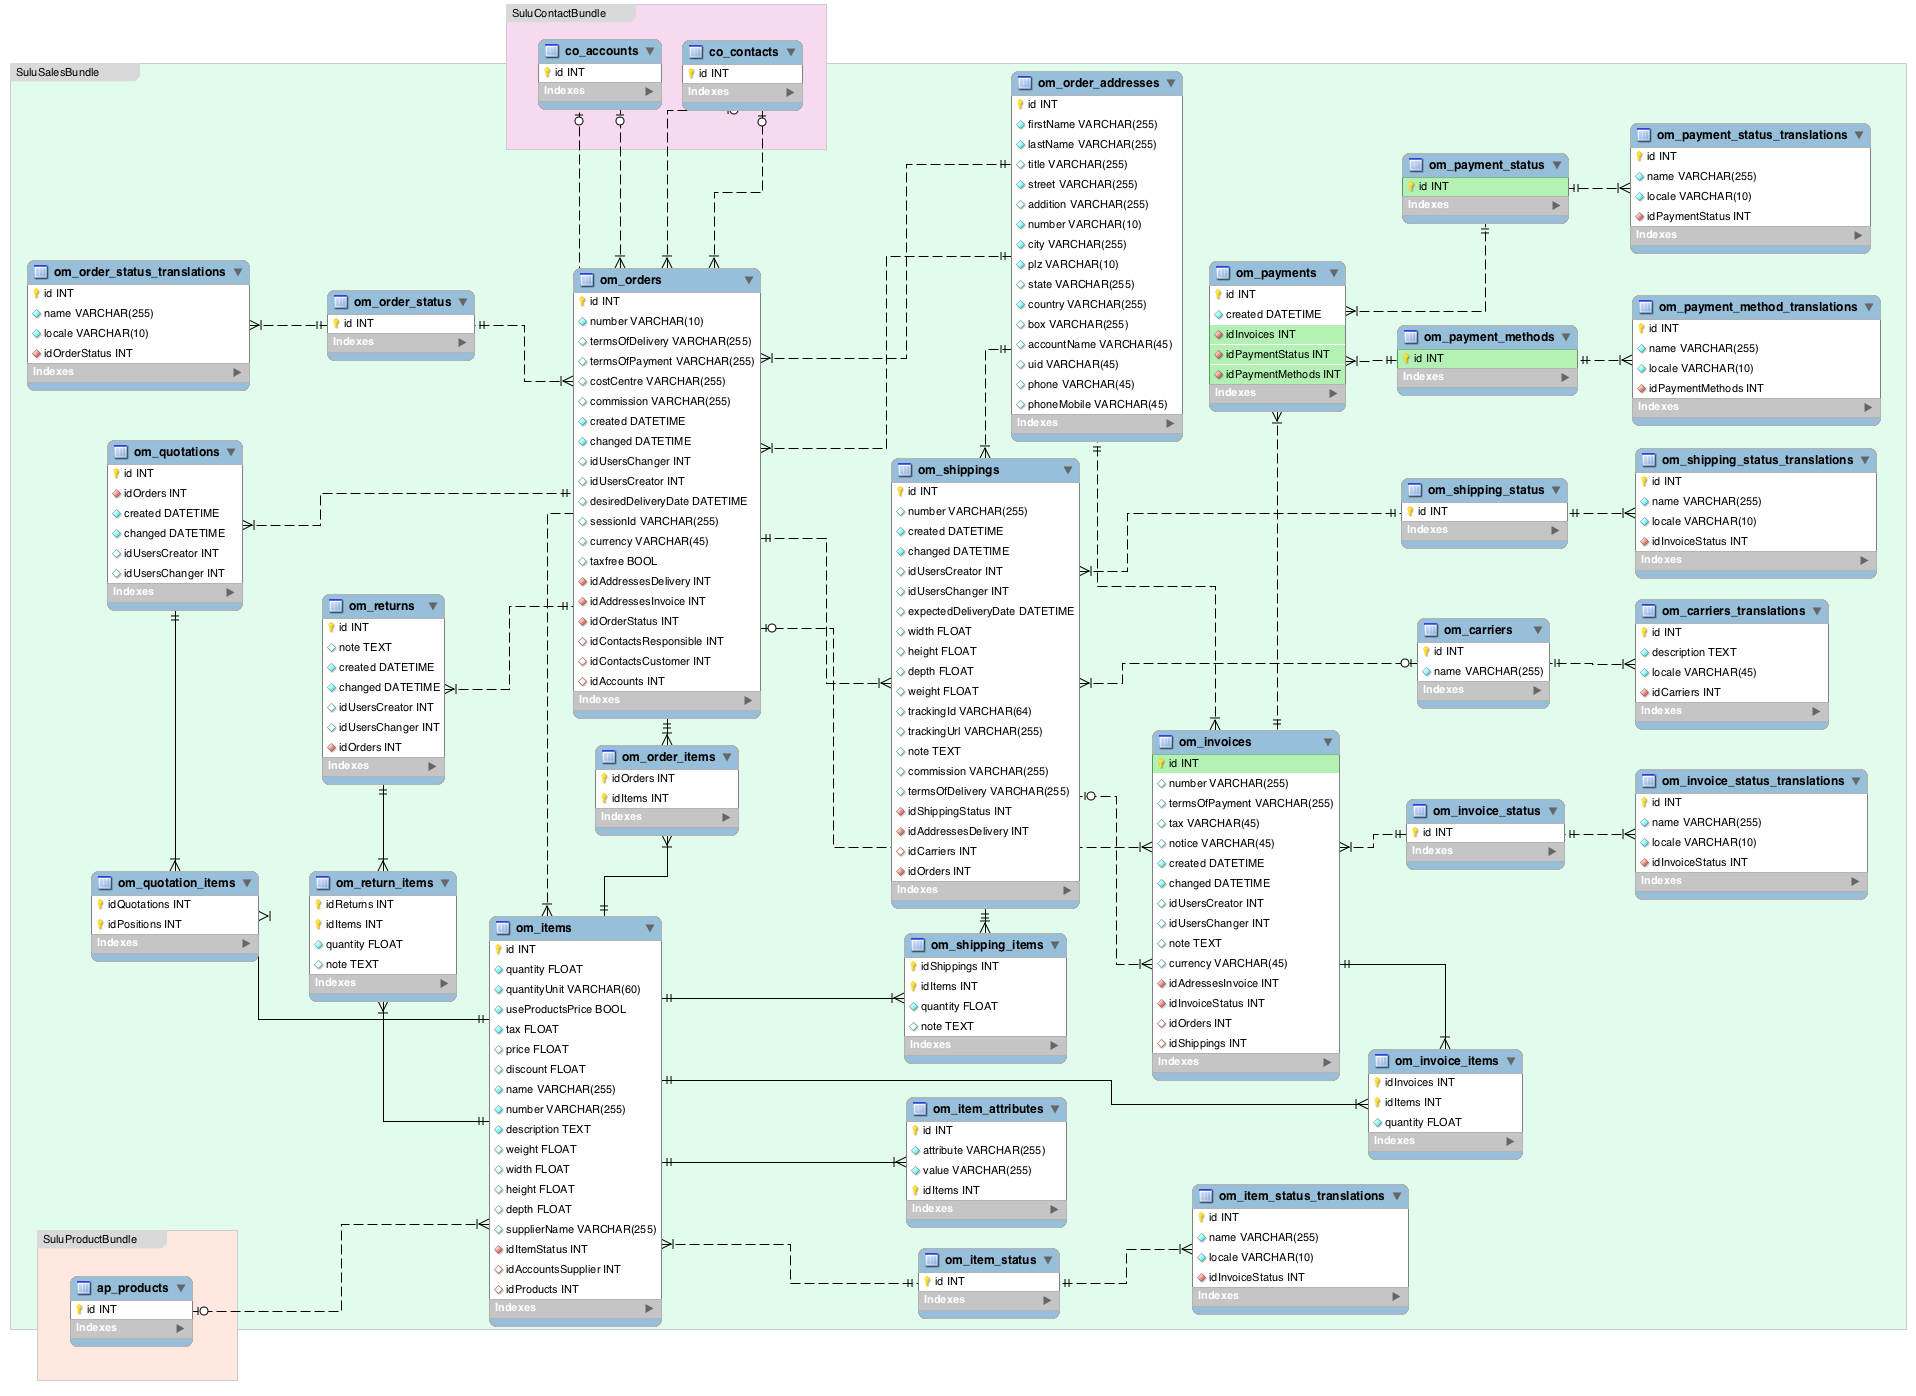
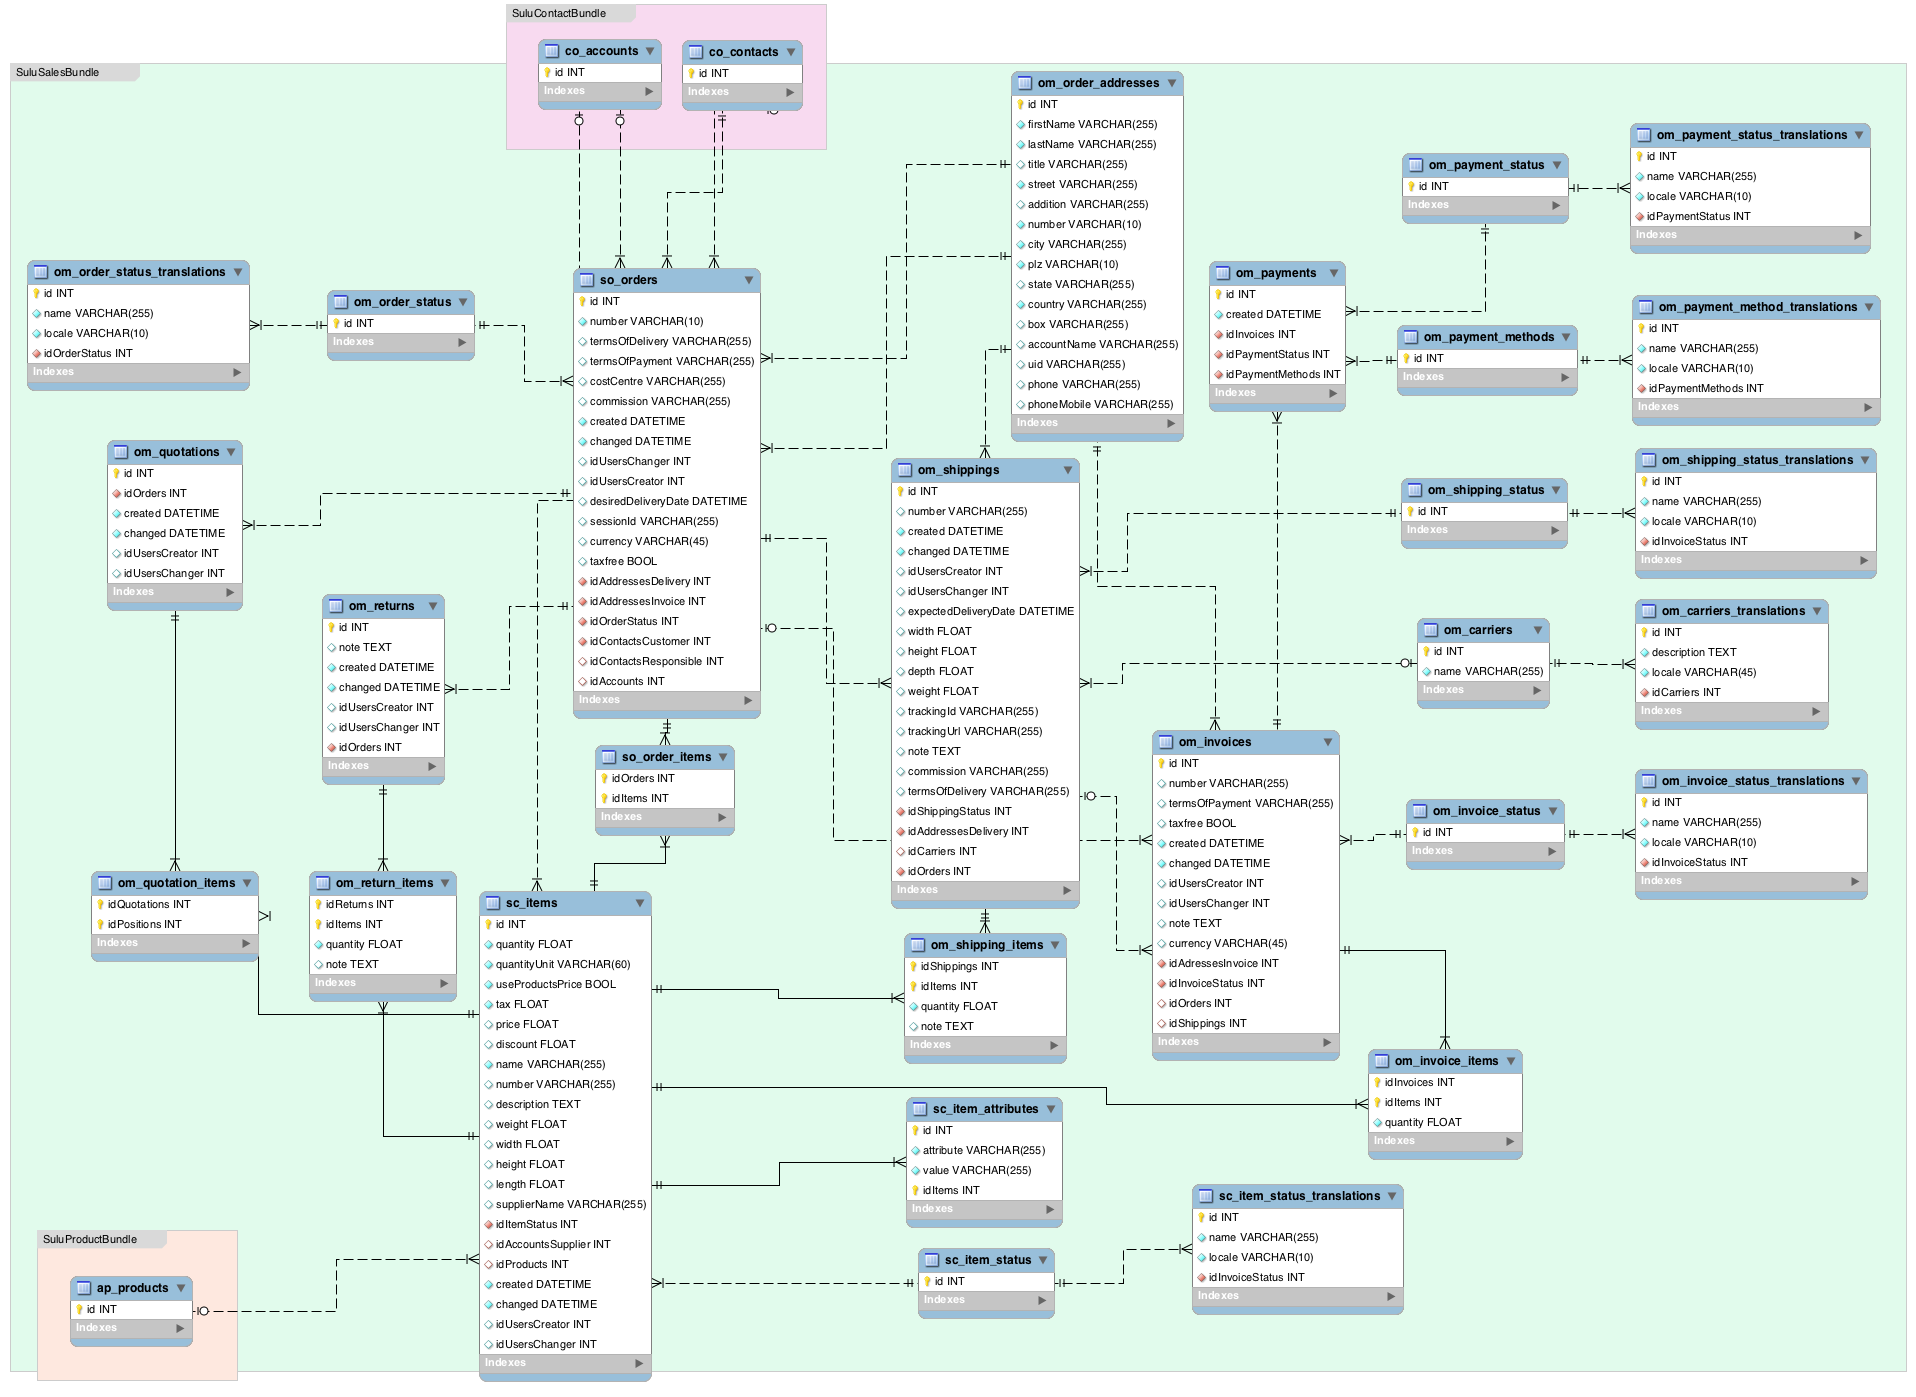
created sales section in detail specification

diff --git a/detail-specification/README.md b/detail-specification/README.md
@@ -18,7 +18,7 @@
 
 ![800 DASHBOARD](https://raw.github.com/massiveart/sulu-docs/master/system-requirements/images/dashboard.png)[800 DASHBOARD](https://github.com/massiveart/sulu-docs/tree/master/detail-specification/800-dashboard "800 DASHBOARD")
 
-![900 SHOP](https://raw.github.com/massiveart/sulu-docs/master/system-requirements/images/shop.png)[900 SHOP](https://github.com/massiveart/sulu-docs/tree/master/detail-specifications/900-shop "900 SHOP")
+![900 SALES](https://raw.github.com/massiveart/sulu-docs/master/system-requirements/images/shop.png)[900 SALES](https://github.com/massiveart/sulu-docs/tree/master/detail-specifications/900-sales "900 SALES")
 
 ####Purpose
 The purpose of this online documentation is to present a definition of the system specification of Sulu 2.0. It contains the major detail specification documents. This documentation is intended for the development team.

diff --git a/detail-specification/900-sales/README.md b/detail-specification/900-sales/README.md
@@ -1,0 +1,12 @@
+##900 - Sales
+
+Consists of Multiple Sales Bundles
+
+* CoreBundle (Basic Sale Functionality needed by all Sales Bundles)
+* OrderBundle (Handling Orders)
+* InvoiceBundle (Handling Invoices)
+* ShippingBundle
+* QuotationBundle
+
+### Sales Database Schema
+![Sales DB Schema](https://github.com/sulu-cmf/docs/blob/master/detail-specification/images/db/sales.png)
